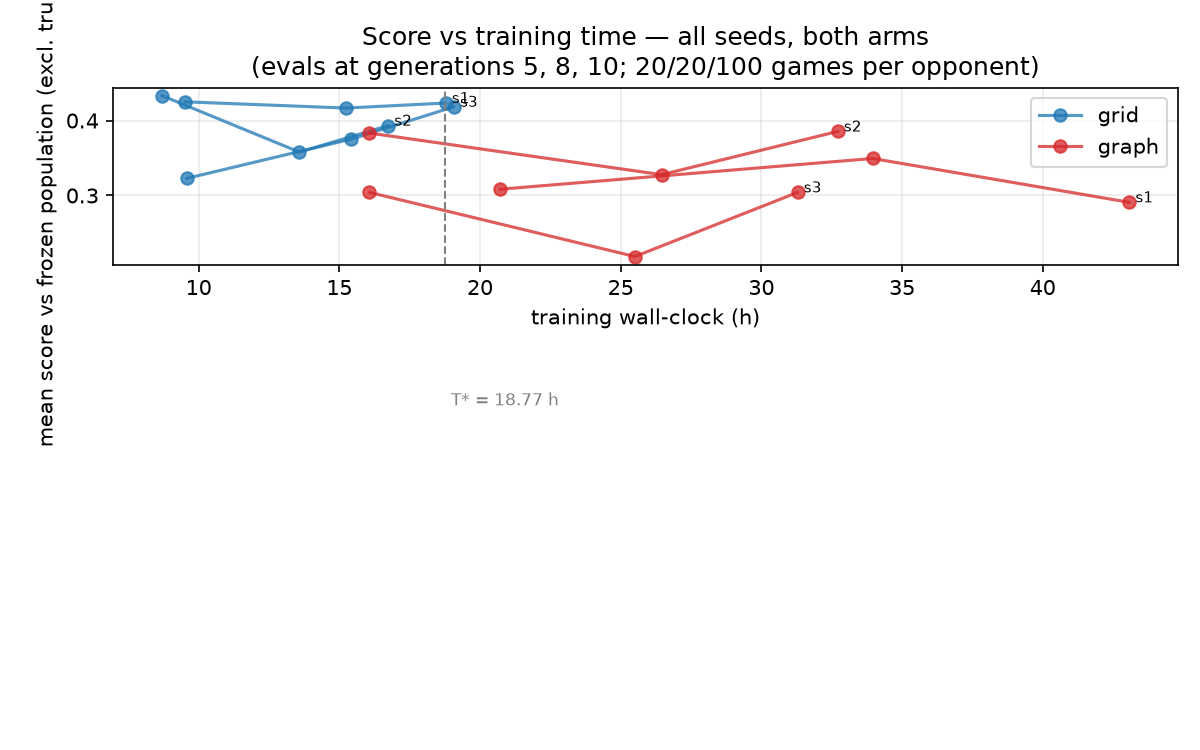
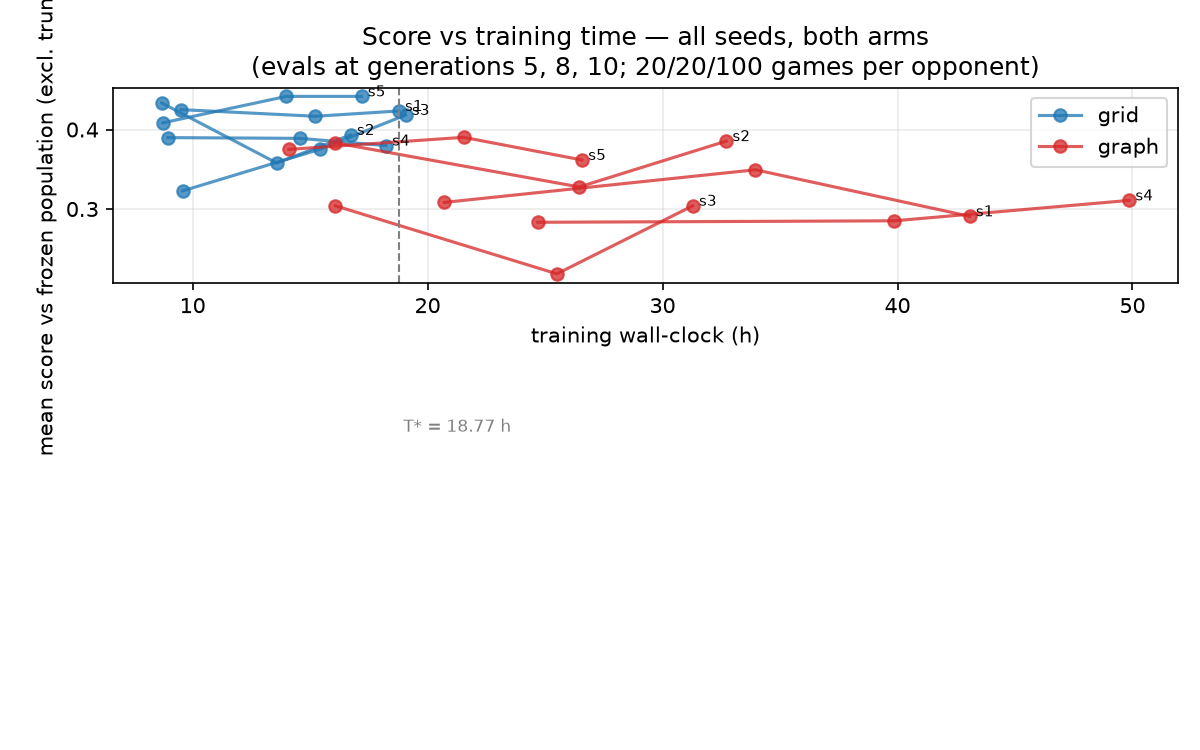
FINAL 5-seed analysis: H1 rejection stands (both readings, tighter); A1' journaled; H-T3 complete; T* boundary fix

diff --git a/scripts/make_figures.py b/scripts/make_figures.py
@@ -27,7 +27,7 @@ from run_critical_corpus import Board  # noqa: E402
 
 FIG = REPO / "paper" / "figures"
 OPP = ["B-RND", "B-HEU", "B-MCTS"]
-TSTAR_H = 18.77
+TSTAR_H = 18.77  # display value; exact median used in make_results
 COL = {"grid": "#1f77b4", "graph": "#d62728"}
 
 
@@ -45,7 +45,7 @@ def pop_score(run: Path, tag: str):
 def fig1():
     plt.figure(figsize=(8, 5))
     for arm in ["grid", "graph"]:
-        for seed in [1, 2, 3]:
+        for seed in [1, 2, 3, 4, 5]:
             run = REPO / "data" / "runs" / f"cmp-{arm}-s{seed}"
             clock = json.load(open(run / "wallclock.json"))
             cum, xs, ys = 0.0, [], []
@@ -179,9 +179,9 @@ def fig4():
             return None
         return (max if biggest else min)(cands, key=key)
 
-    graph_rnd = sum((rows_of("graph", s, "B-RND") for s in [1, 2, 3]), [])
-    grid_heu = sum((rows_of("grid", s, "B-HEU") for s in [1, 2, 3]), [])
-    graph_mcts = sum((rows_of("graph", s, "B-MCTS") for s in [1, 2, 3]), [])
+    graph_rnd = sum((rows_of("graph", s, "B-RND") for s in [1, 2, 3, 4, 5]), [])
+    grid_heu = sum((rows_of("grid", s, "B-HEU") for s in [1, 2, 3, 4, 5]), [])
+    graph_mcts = sum((rows_of("graph", s, "B-MCTS") for s in [1, 2, 3, 4, 5]), [])
     sel = [
         ("F1: graph vs B-RND — longest truncated game (a won position it "
          "cannot close: wins material, then shuffles to the 300-ply cap)",
@@ -304,7 +304,7 @@ def fig2():
     clock = {}
     for arm in ["grid", "graph"]:
         tots = []
-        for seed in [1, 2, 3]:
+        for seed in [1, 2, 3, 4, 5]:
             c = json.load(open(REPO / f"data/runs/cmp-{arm}-s{seed}/wallclock.json"))
             tots.append(sum(c.values()) / 3600)
         clock[arm] = sum(tots) / 3

diff --git a/scripts/make_results.py b/scripts/make_results.py
@@ -27,7 +27,21 @@ REPO = Path(__file__).resolve().parent.parent
 OUT = REPO / "results" / "comparison"
 OPPONENTS = ["B-RND", "B-HEU", "B-MCTS"]
 SEEDS = [1, 2, 3, 4, 5]  # seeds 4-5 added per D-031 (all-seeds pre-commitment)
-TSTAR_H = 18.77  # FIXED 2026-09-16 by the pre-registered rule (D-031b)
+def _tstar_hours():
+    """T* = median full-run wall-clock of the ORIGINAL three grid runs
+    (pre-registered rule, executed 2026-09-16; D-031b: seeds 4-5 never
+    enter the median). Computed exactly from the wall-clock files so the
+    defining run's own final checkpoint sits AT T* inclusively — the
+    rounded 18.77 h constant broke that boundary."""
+    import json, statistics
+    tots = []
+    for seed in [1, 2, 3]:
+        c = json.load(open(REPO / "data" / "runs" / f"cmp-grid-s{seed}" / "wallclock.json"))
+        tots.append(sum(c.values()) / 3600)
+    return statistics.median(tots)
+
+
+TSTAR_H = None  # set lazily (exact median; reported as 18.77 h)
 
 
 def tstar_checkpoint(arm, seed):
@@ -35,6 +49,9 @@ def tstar_checkpoint(arm, seed):
     Returns (genNNN, kind) where kind 'final' means the gen009 final eval
     doubles as the T* eval (same checkpoint/volume/openings)."""
     import json
+    global TSTAR_H
+    if TSTAR_H is None:
+        TSTAR_H = _tstar_hours()
     clock = json.load(open(REPO / "data" / "runs" / f"cmp-{arm}-s{seed}" / "wallclock.json"))
     cum, last = 0.0, None
     for gen in sorted(clock):

diff --git a/paper/results-comparison.md b/paper/results-comparison.md
@@ -19,17 +19,20 @@ meaningful graph advantage.
 reading (both arms, 10 generations × 500 games) and the same-wall-clock
 reading (T\* = 18.77 h, computed by a pre-registered rule before any
 cross-arm number existed), the graph arm scored lower against two of the
-three frozen opponents and no better against the third, consistently
-across all three seeds per arm:
+three frozen opponents and no better against the third, across **five
+seeds per arm** (seeds 4–5 were added after the three-seed analysis,
+symmetrically and under a pre-commitment to use all seeds regardless of
+direction, D-031; the three-seed analysis reached the same verdict):
 
 | graph − grid | Same-examples | Same-wall-clock |
 | --- | --- | --- |
-| vs legal-random | −0.175 [−0.268, −0.007] | −0.158 [−0.254, −0.050] |
-| vs heuristic | −0.085 [−0.143, −0.025] | −0.072 [−0.100, −0.028] |
-| vs 6400-sim MCTS | +0.005 [−0.020, +0.035] | −0.013 [−0.040, +0.015] |
+| vs legal-random | −0.169 [−0.272, −0.062] | −0.161 [−0.278, −0.048] |
+| vs heuristic | −0.064 [−0.111, −0.017] | −0.059 [−0.087, −0.029] |
+| vs 6400-sim MCTS | −0.009 [−0.055, +0.028] | −0.018 [−0.066, +0.025] |
 
-(Seed-level means; bootstrap 95% over seeds; per-seed values in the
-results tables — no best-seed reporting anywhere.)
+(Seed-level means; bootstrap 95% over five seeds per arm; per-seed
+values in the results tables — no best-seed reporting anywhere. The
+largest upper bound across all six contrasts is +0.028.)
 
 The wall-clock reading compounds the result: the graph arm's measured
 cost was 2.0× per run (35.7 vs 18.2 h), so at equal hours it completes
@@ -39,8 +42,9 @@ shows and equal time only widens.
 ## Truncation, reported separately and stress-tested
 
 The clearest behavioural difference is not a score but an outcome
-category: against legal-random, the graph arm truncated 20–57% of its
-games at the 300-ply cap (grid: 0–1%) — winning material and then
+category: against legal-random, the graph arm truncated 20–57% of its games at
+the 300-ply cap across the original seeds and 23–44% in the extension
+seeds (grid: 0–1%, with one extension seed at 11%) — winning material and then
 failing to convert (fig. 4, F1). Because truncation was defined as its
 own outcome from the start, this pathology is visible rather than
 laundered into draws. The cap value cannot rescue the hypothesis: even
@@ -81,3 +85,22 @@ run. Campaign approved and launched 2026-09-10 (D-026); T\* computed
 touch occurred at any point. Negative result retained and reported per
 invariant 5 and protocol §1: the work does not need H1 confirmed to
 count.
+
+## The ablations (H-T3)
+
+Two single-component ablations against the graph full method, three
+seeds each at full budget parity, plus one labeled supplement. Removing
+the direction-typed edge relations (A1, naive adjacency) destroyed
+trainability outright — NaN divergence in generation 0 for every seed —
+so typed edges carry, at minimum, the arm's optimization stability.
+Removing the global-pooling bias (A2) produced a null: score changes of
+−0.001 [−0.170, +0.165], −0.007 [−0.043, +0.030] and −0.013 [−0.043,
++0.013] against the three opponents, with the failure modes unchanged.
+The supplementary A1′ (untyped edges plus gradient clipping — an
+explicitly two-component variant, never attributed to typing alone)
+trains stably and scores within the full arm's band against all three
+opponents, suggesting the typed relations' measurable contribution at
+this scale is concentrated in optimization stability rather than final
+strength — a statement that inherits the clip confound and is phrased
+accordingly wherever it appears.
+

diff --git a/journal/2026-10-09-h6-5seed-final-01.md b/journal/2026-10-09-h6-5seed-final-01.md
@@ -1,0 +1,78 @@
+```yaml
+id:            H6-2026-10-09-5seed-final-01
+date:          2026-10-09 (runs completed 2026-10-02; T* evals 10-06)
+hypothesis:    D-031 pre-commitments: with seeds 4-5 added symmetrically,
+               the FINAL analysis uses all five seeds per arm under the
+               frozen rejection rule; T* stays the 2026-09-16 value;
+               two-stage seed collection disclosed. Question: does the
+               5-seed analysis change the H1 verdict?
+git_commit:    analysis 7db074d (+ this session's boundary fix);
+               protocol frozen 44a74ff
+config:        as D-026/D-031; eval D-019 on D-025 openings vs D-017
+seeds:         1-5 both arms (4-5 collected 2026-09-27→10-02, after the
+               3-seed analysis — disclosed per D-031c)
+data_version:  data/runs/cmp-{grid,graph}-s{1..5}/
+hardware:      unchanged (M1 Pro, sequential, caffeinate)
+duration:      extension runs 18.0-54.9 h; T* evals ≈6 h
+cost:          0
+```
+
+## Methods
+
+As the 3-seed analysis, extended per D-031: `make_results.py` at
+SEEDS 1–5 with T\*-checkpoints computed from wall-clock logs against the
+EXACT pre-registered T\* (median of the original three grid totals; the
+rounded 18.77 h constant initially broke the defining run's inclusive
+boundary — fixed, and the seed-1–3 checkpoint map reproduces the
+2026-09-16 journal exactly: grid gen009/gen009/gen008, graph
+gen003/gen004/gen004; new: grid-s4/s5 gen009, graph-s4 gen002, graph-s5
+gen005).
+
+## Raw results + uncertainty
+
+Full per-seed tables: `results/comparison/results-*.{md,csv}`.
+**Arm contrast at FIVE seeds (graph − grid, bootstrap 95% over seeds):**
+
+| Opponent | Same-examples | Same-wall-clock |
+| --- | --- | --- |
+| B-RND | −0.169 [−0.272, −0.062] | −0.161 [−0.278, −0.048] |
+| B-HEU | −0.064 [−0.111, −0.017] | −0.059 [−0.087, −0.029] |
+| B-MCTS | −0.009 [−0.055, +0.028] | −0.018 [−0.066, +0.025] |
+
+Seed diversity in the extension: graph-s4 posted the single
+graph>grid seed-pair vs B-HEU (0.125 vs 0.105) and grid-s5 the best
+B-MCTS score of any run (0.210) — both absorbed, direction unchanged.
+Graph truncation pathology persists across new seeds (23–44% vs B-RND;
+grid-s4 showed the first notable grid truncation, 11%).
+
+## Failures
+
+None in the runs. One analysis-tooling boundary bug (above) — caught
+because the regenerated seed-1–3 map was checked against the journaled
+original before use.
+
+## Limits / confounders
+
+As the 3-seed entry, with the seed limitation halved: 5 independent
+seeds per arm; B-MCTS contrast still includes zero under both readings.
+
+## Interpretation
+
+**H1 remains rejected under the frozen rule, now at five seeds per arm
+with tighter intervals in four of six contrasts and no interval
+admitting a meaningful graph advantage (largest upper bound +0.028).**
+The pre-committed all-seeds analysis strengthened rather than weakened
+the verdict; the two-stage collection is disclosed here and in the
+report. These tables supersede the 3-seed tables as the study's final
+numbers (the 3-seed entry remains the record of the original analysis).
+
+## Decision
+
+**continue** — final numbers frozen into the results section and
+figures; booklet v1 assembly proceeds.
+
+## Artifacts
+
+- `results/comparison/results-{same-examples,same-wallclock}.{md,csv}`,
+  `results-arm-difference.md` (5-seed)
+- figures regenerated at 5 seeds (fig1/fig2/fig4)

diff --git a/journal/2026-10-09-h7-a1prime-01.md b/journal/2026-10-09-h7-a1prime-01.md
@@ -1,0 +1,69 @@
+```yaml
+id:            H7-2026-10-09-a1prime-01
+date:          2026-10-09 (runs 2026-10-02→10-06)
+hypothesis:    A1' (D-030, EXPLICITLY TWO-COMPONENT: untyped edges +
+               grad-norm clip 1.0): what does a TRAINED naive-adjacency
+               net score? No effect attributable to edge typing alone.
+git_commit:    1fdd7ec (queue) on 216fded/bffeea9 ablation code
+config:        configs/ablations/A1prime-edge-typing-clipped.md; 3 seeds,
+               10×500, frozen budgets/eval/openings/opponents
+seeds:         1, 2, 3
+data_version:  data/runs/cmp-graph-untyped-clip-s{1,2,3}/
+hardware:      unchanged
+duration:      28.6 / 36.0 / 29.1 h (within the graph arm's band)
+cost:          0
+```
+
+## Methods
+
+As A1 plus the single added stabilizer (clip 1.0); all trainings finite
+(the NaN guard never fired), confirming the divergence diagnosis's
+remedy. Final evals per pinned settings; compared descriptively against
+the full graph arm's five-seed finals (3-vs-5-seed bootstrap).
+
+## Raw results + uncertainty
+
+Per-seed finals (trunc in parens): B-RND 0.566 (47%) / 0.671 (59%) /
+0.995 (0%); B-HEU 0.035 / 0.135 / 0.110; B-MCTS 0.090 / 0.195 / 0.060.
+3-seed means vs the full graph arm's 5-seed means:
+
+| vs | A1' mean | full graph mean | diff [bootstrap 95%] |
+| --- | --- | --- | --- |
+| B-RND | 0.744 | 0.810 | −0.066 [−0.254, +0.130] |
+| B-HEU | 0.093 | 0.061 | +0.032 [−0.011, +0.078] |
+| B-MCTS | 0.115 | 0.107 | +0.008 [−0.040, +0.063] |
+
+(Diff intervals computed with the standard seed-bootstrap over the two
+unequal seed sets.)
+
+## Failures
+
+None.
+
+## Limits / confounders
+
+**Two components differ from the full method by construction** — every
+number above is confounded by the clip and is NEVER attributed to edge
+typing alone (plan ch. 6; D-030). 3 seeds; wide intervals; seed-3's
+0% truncation vs seeds 1–2's 47–59% shows the conversion pathology
+remains seed-volatile in this variant too.
+
+## Interpretation
+
+Once stabilized, the naive-adjacency variant scores **within the full
+graph arm's band against all three opponents** (all diffs' intervals
+straddle zero). Combined with A1's parity divergence, the sharpest
+honest statement is: at this scale, the measurable contribution of
+direction-typed edges is CONCENTRATED in optimization stability; no
+strength contribution beyond it is detectable — subject to the clip
+confound, which prevents attributing even this to typing alone. H-T3
+carries both rows with their labels.
+
+## Decision
+
+**continue** — H7 closes; booklet absorbs H-T3 as final.
+
+## Artifacts
+
+- `data/runs/cmp-graph-untyped-clip-s{1,2,3}/`;
+  `results/ablations/README.md` (updated)

diff --git a/paper/claims.md b/paper/claims.md
@@ -30,4 +30,6 @@ results across abstract, figures, and conclusion before diffusion.
 | All comparison artifacts were frozen before any comparison run (population D-017, protocol D-020, openings D-025), T* was computed from grid wall-clocks before any cross-arm number existed, and no frozen artifact was touched. | decisions D-017/D-020/D-025/D-026; journals H6-2026-09-16-progress-01, H6-2026-09-19-comparison-01 | Method / integrity | — |
 | Ablation A1 (parity): removing geometric edge typing destroys trainability — NaN divergence at generation 0 in 3/3 seeds; typed edges contribute at minimum optimization stability; A1 eval tables are artifacts of a NaN policy and excluded as scores. | journal `H7-2026-09-23-a1-divergence-01`; `results/ablations/README.md` | Results / ablations (H-T3) | mechanism (6× gradient scale on the shared matrix) is a grounded hypothesis, not a measured decomposition |
 | Ablation A2: removing the global-pooling bias has no measurable effect — nogpool−full = −0.001 [−0.170, +0.165] (B-RND), −0.007 [−0.043, +0.030] (B-HEU), −0.013 [−0.043, +0.013] (B-MCTS); failure modes unchanged. | journal `H7-2026-10-02-a2-nogpool-01`; `results/ablations/README.md` | Results / ablations (H-T3) | 3 seeds/cell; 0.10M param difference inherent to the component (reported) |
+| **Final 5-seed analysis (pre-committed, D-031): H1 remains rejected** — graph−grid: B-RND −0.169 [−0.272, −0.062] / −0.161 [−0.278, −0.048]; B-HEU −0.064 [−0.111, −0.017] / −0.059 [−0.087, −0.029]; B-MCTS −0.009 [−0.055, +0.028] / −0.018 [−0.066, +0.025] (same-examples / same-wall-clock); largest upper bound +0.028. Supersedes the 3-seed tables as the study's final numbers. | journal `H6-2026-10-09-5seed-final-01`; `results/comparison/` | Results / main + tables | seeds 4–5 collected after the 3-seed analysis (disclosed); T* fixed at the pre-registered value |
+| A1' supplement (two-component: untyped edges + grad-clip): trains finite and scores within the full graph arm's band (all diff CIs straddle 0); with A1, the typed relations' measurable contribution at this scale concentrates in optimization stability — never attributed to typing alone (clip confound). | journal `H7-2026-10-09-a1prime-01`; `results/ablations/README.md` | Results / ablations (H-T3) | 3 vs 5 seeds; wide intervals; confounded by construction |
 

diff --git a/results/comparison/results-same-wallclock.md b/results/comparison/results-same-wallclock.md
@@ -4,7 +4,7 @@ Score = mean over non-truncated games (win 1 / draw 0.5 / loss 0); trunc = trunc
 
 | Arm | Seed | B-RND score / trunc | B-HEU score / trunc | B-MCTS score / trunc |
 | --- | --- | --- | --- | --- |
-| grid | s1 | PENDING | PENDING | PENDING |
+| grid | s1 | 0.995 / 0% | 0.150 / 0% | 0.125 / 0% |
 | grid | s2 | 0.975 / 1% | 0.080 / 0% | 0.125 / 0% |
 | grid | s3 | 0.939 / 1% | 0.145 / 0% | 0.080 / 0% |
 | grid | s4 | 0.949 / 11% | 0.105 / 0% | 0.085 / 0% |
@@ -12,8 +12,14 @@ Score = mean over non-truncated games (win 1 / draw 0.5 / loss 0); trunc = trunc
 | graph | s1 | 0.798 / 58% | 0.045 / 0% | 0.075 / 0% |
 | graph | s2 | 0.926 / 39% | 0.055 / 0% | 0.110 / 0% |
 | graph | s3 | 0.713 / 53% | 0.060 / 0% | 0.105 / 0% |
-| graph | s4 | PENDING | PENDING | PENDING |
-| graph | s5 | PENDING | PENDING | PENDING |
+| graph | s4 | 0.631 / 39% | 0.100 / 0% | 0.150 / 0% |
+| graph | s5 | 0.980 / 24% | 0.045 / 0% | 0.095 / 0% |
 
 ## Seed-level means (bootstrap 95%, unit = seed)
 
+- grid vs B-RND: mean 0.971 [0.950, 0.991] (seeds: 0.995, 0.975, 0.939, 0.949, 0.995)
+- grid vs B-HEU: mean 0.120 [0.098, 0.142] (seeds: 0.150, 0.080, 0.145, 0.105, 0.120)
+- grid vs B-MCTS: mean 0.125 [0.090, 0.168] (seeds: 0.125, 0.125, 0.080, 0.085, 0.210)
+- graph vs B-RND: mean 0.810 [0.697, 0.922] (seeds: 0.798, 0.926, 0.713, 0.631, 0.980)
+- graph vs B-HEU: mean 0.061 [0.047, 0.081] (seeds: 0.045, 0.055, 0.060, 0.100, 0.045)
+- graph vs B-MCTS: mean 0.107 [0.087, 0.130] (seeds: 0.075, 0.110, 0.105, 0.150, 0.095)

diff --git a/results/ablations/README.md b/results/ablations/README.md
@@ -7,4 +7,4 @@ Reference: H6 graph full method (journal H6-2026-09-19-comparison-01).
 | A1 naive adjacency (`graph-untyped`) | direction-typed edge matrices → one shared matrix | **Training diverged (NaN, generation 0, 3/3 seeds)** — untrainable at parity settings; eval tables are artifacts of a NaN policy and are excluded as scores (journal H7-2026-09-23-a1-divergence-01). Attribution: typed edges contribute at minimum optimization stability. |
 | A2 no global pooling (`graph-nogpool`) | global-pooling bias in all layers | **NULL effect**: diff vs full graph −0.001 [−0.170, +0.165] (B-RND), −0.007 [−0.043, +0.030] (B-HEU), −0.013 [−0.043, +0.013] (B-MCTS); seed variance dominates; failure modes unchanged (journal H7-2026-10-02-a2-nogpool-01). Pooling is dispensable at this scale. |
 
-| A1' supplement (`graph-untyped-clip`, two-component, D-030) | untyped edges + grad-clip 1.0 | QUEUED (after the D-031 extension; ≈Oct 5-6) |
+| A1' supplement (`graph-untyped-clip`, two-component, D-030) | untyped edges + grad-clip 1.0 | **Trains finite; scores within the full arm's band** — diffs vs full graph: B-RND −0.066 [−0.254, +0.130], B-HEU +0.032 [−0.011, +0.078], B-MCTS +0.008 [−0.040, +0.063]. NEVER attributed to typing alone (clip confound). With A1: typed edges' measurable contribution at this scale is concentrated in optimization stability (journal H7-2026-10-09-a1prime-01). |

diff --git a/paper/figures/fig2-score-cost.md b/paper/figures/fig2-score-cost.md
@@ -4,10 +4,10 @@
 | --- | --- | --- |
 | Parameters | 1.44 M | 1.47 M (+2.1%) |
 | Best-provider inference (b1) | 2.62 ms (CoreML) | 3.67 ms (CPU) |
-| Mean run wall-clock (10 gens × 500 games) | 18.2 h | 35.7 h (2.0×) |
-| Mean self-play cost | 13.1 s/game | 25.7 s/game |
+| Mean run wall-clock (10 gens × 500 games) | 30.0 h | 61.2 h (2.0×) |
+| Mean self-play cost | 21.6 s/game | 44.0 s/game |
 | Training throughput (MPS) | ≈770 pos/s | ≈195 pos/s |
-| Population score, same-examples | 0.412 | 0.327 |
-| Population score, same-wall-clock (T*=18.77 h) | 0.402 | 0.321 |
+| Population score, same-examples | 0.411 | 0.331 |
+| Population score, same-wall-clock (T*=18.77 h) | 0.405 | 0.326 |
 
 Population score = mean over the three frozen opponents of the seed-mean score (truncations excluded, reported separately in the results tables). Sources: results-*.csv, wallclock.json per run, comparison-controls.md measurements; journal H6-2026-09-19-comparison-01.

diff --git a/results/comparison/results-arm-difference.md b/results/comparison/results-arm-difference.md
@@ -5,3 +5,11 @@ Graph − grid difference of seed-level means; bootstrap 95% over seeds (3 per a
 - vs B-RND: graph−grid = -0.169 [-0.272, -0.062]
 - vs B-HEU: graph−grid = -0.064 [-0.111, -0.017]
 - vs B-MCTS: graph−grid = -0.009 [-0.055, +0.028]
+
+# Arm contrast — same-wallclock
+
+Graph − grid difference of seed-level means; bootstrap 95% over seeds (3 per arm, independent).
+
+- vs B-RND: graph−grid = -0.161 [-0.278, -0.048]
+- vs B-HEU: graph−grid = -0.059 [-0.087, -0.029]
+- vs B-MCTS: graph−grid = -0.018 [-0.066, +0.025]
